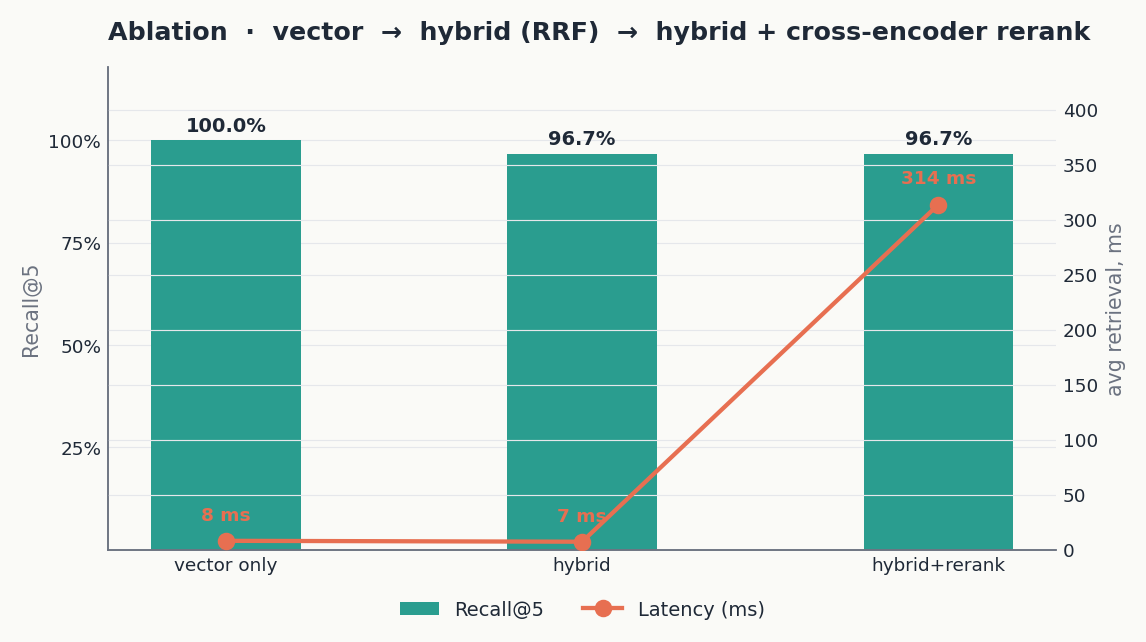
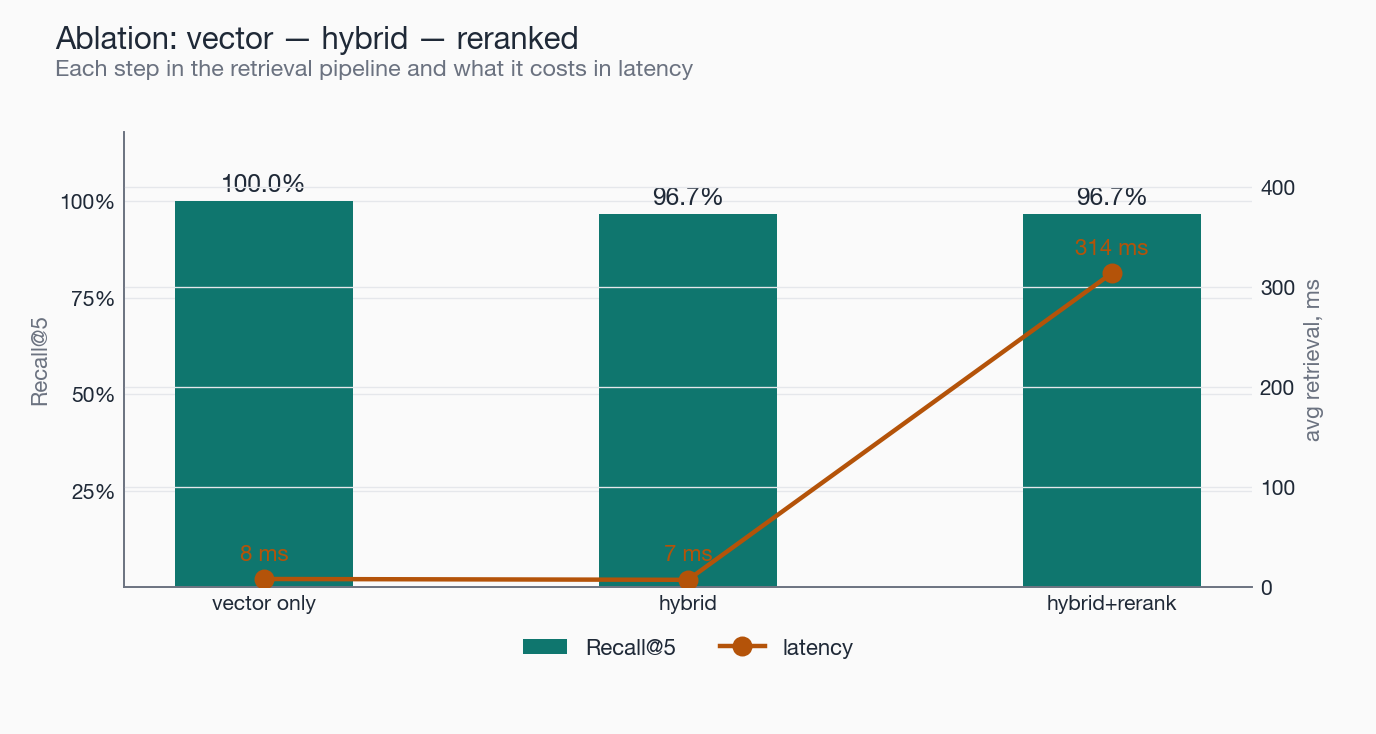
Polish charts and shorten eval section
- Redraw 3 charts with clean light-theme palette
- Simplify architecture diagram (remove emojis, tighten labels)
- Shorten Evaluation Methodology section

diff --git a/scripts/make_charts.py b/scripts/make_charts.py
@@ -9,27 +9,24 @@ ABLATION = Path("data/eval/ablation.json")
 ASSETS = Path("assets")
 ASSETS.mkdir(exist_ok=True)
 
-NAVY = "#1F2A44"
-TEAL = "#2A9D8F"
-AMBER = "#E9C46A"
-CORAL = "#E76F51"
-SLATE = "#264653"
-GRID = "#E5E7EB"
-TEXT = "#1F2937"
+INK = "#1F2937"
 MUTED = "#6B7280"
-BG = "#FAFAF7"
+GRID = "#E5E7EB"
+ACCENT = "#2851A3"
+GOOD = "#0F766E"
+WARN = "#B45309"
+BG = "#FAFAFA"
 
 mpl.rcParams.update({
-    "font.family": "DejaVu Sans",
+    "font.family": "sans-serif",
+    "font.sans-serif": ["Helvetica Neue", "Helvetica", "Arial", "DejaVu Sans"],
+    "font.size": 10.5,
     "axes.edgecolor": MUTED,
-    "axes.labelcolor": TEXT,
-    "axes.titlecolor": TEXT,
-    "axes.titlesize": 13,
-    "axes.titleweight": "semibold",
-    "axes.titlepad": 14,
-    "axes.labelsize": 10.5,
-    "xtick.color": TEXT,
-    "ytick.color": TEXT,
+    "axes.labelcolor": INK,
+    "axes.titlecolor": INK,
+    "axes.labelsize": 10,
+    "xtick.color": INK,
+    "ytick.color": INK,
     "xtick.labelsize": 9.5,
     "ytick.labelsize": 9.5,
     "axes.spines.top": False,
@@ -39,15 +36,23 @@ mpl.rcParams.update({
     "grid.linewidth": 0.6,
     "grid.alpha": 1.0,
     "axes.axisbelow": True,
+    "figure.facecolor": BG,
 })
 
 
 def _frame(ax):
     for s in ("left", "bottom"):
         ax.spines[s].set_color(MUTED)
-        ax.spines[s].set_linewidth(0.8)
+        ax.spines[s].set_linewidth(0.7)
     ax.tick_params(length=0)
-    ax.grid(axis="x", visible=False)
+
+
+def _titles(fig, title, subtitle=None):
+    fig.text(0.04, 0.965, title, fontsize=14, fontweight="semibold",
+             color=INK, ha="left", va="top")
+    if subtitle:
+        fig.text(0.04, 0.918, subtitle, fontsize=10.5, color=MUTED,
+                 ha="left", va="top")
 
 
 def eval_summary():
@@ -55,29 +60,27 @@ def eval_summary():
     m = data["metrics"]
     labels = ["Recall@5", "Correctness", "Faithfulness"]
     values = [m["recall_at_5"], m["correctness"], m.get("faithfulness", 0)]
-    colors = [TEAL, AMBER, CORAL]
 
-    fig, ax = plt.subplots(figsize=(7, 4.2), facecolor=BG)
+    fig, ax = plt.subplots(figsize=(7.5, 4.4))
     ax.set_facecolor(BG)
-    bars = ax.bar(labels, values, color=colors, width=0.55, edgecolor="none")
-    ax.set_ylim(0, 1.08)
+    bars = ax.bar(labels, values, color=ACCENT, width=0.5, edgecolor="none")
+    bars[0].set_color(GOOD)
+    bars[2].set_color(GOOD)
+
+    ax.set_ylim(0, 1.10)
     ax.set_yticks([0.25, 0.5, 0.75, 1.0])
     ax.set_yticklabels(["25%", "50%", "75%", "100%"])
     ax.set_ylabel("score", color=MUTED)
-    ax.set_title(f"RAG evaluation  ·  {m['total']} questions  ·  Llama 3.3 70B judge", loc="left")
+
     for b, v in zip(bars, values):
-        ax.text(
-            b.get_x() + b.get_width() / 2,
-            v + 0.018,
-            f"{v:.1%}",
-            ha="center",
-            color=TEXT,
-            fontsize=11,
-            fontweight="semibold",
-        )
+        ax.text(b.get_x() + b.get_width() / 2, v + 0.022, f"{v:.1%}",
+                ha="center", color=INK, fontsize=11.5, fontweight="semibold")
+
     _frame(ax)
-    fig.tight_layout()
-    fig.savefig(ASSETS / "eval_summary.png", dpi=140, facecolor=BG)
+    fig.subplots_adjust(top=0.80, left=0.10, right=0.96, bottom=0.12)
+    _titles(fig, f"RAG evaluation — {m['total']} questions",
+            "Llama 3.3 70B as judge · retrieval, correctness, faithfulness")
+    fig.savefig(ASSETS / "eval_summary.png", dpi=160, facecolor=BG)
     plt.close(fig)
 
 
@@ -95,25 +98,31 @@ def eval_by_category():
     rec = [sum(cats[c]["recall"]) / len(cats[c]["recall"]) for c in names]
     cor = [sum(cats[c]["correct"]) / len(cats[c]["correct"]) for c in names]
 
-    fig, ax = plt.subplots(figsize=(10, 4.6), facecolor=BG)
+    fig, ax = plt.subplots(figsize=(10.5, 4.6))
     ax.set_facecolor(BG)
     x = list(range(len(names)))
     width = 0.38
-    ax.bar([i - width / 2 for i in x], rec, width, label="Recall@5", color=TEAL, edgecolor="none")
-    ax.bar([i + width / 2 for i in x], cor, width, label="Correctness", color=AMBER, edgecolor="none")
+    ax.bar([i - width / 2 for i in x], rec, width,
+           label="Recall@5", color=GOOD, edgecolor="none")
+    ax.bar([i + width / 2 for i in x], cor, width,
+           label="Correctness", color=ACCENT, edgecolor="none")
+
     ax.set_xticks(x)
     ax.set_xticklabels(names, rotation=30, ha="right")
-    ax.set_ylim(0, 1.08)
+    ax.set_ylim(0, 1.10)
     ax.set_yticks([0.25, 0.5, 0.75, 1.0])
     ax.set_yticklabels(["25%", "50%", "75%", "100%"])
     ax.set_ylabel("score", color=MUTED)
-    ax.set_title("Per-category performance", loc="left")
+
     leg = ax.legend(frameon=False, loc="lower right", fontsize=10)
     for t in leg.get_texts():
-        t.set_color(TEXT)
+        t.set_color(INK)
+
     _frame(ax)
-    fig.tight_layout()
-    fig.savefig(ASSETS / "eval_by_category.png", dpi=140, facecolor=BG)
+    fig.subplots_adjust(top=0.84, left=0.07, right=0.97, bottom=0.22)
+    _titles(fig, "Per-category performance",
+            "Recall@5 and Correctness across 12 question categories")
+    fig.savefig(ASSETS / "eval_by_category.png", dpi=160, facecolor=BG)
     plt.close(fig)
 
 
@@ -126,45 +135,48 @@ def ablation_chart():
     recall = [data[n]["recall_at_5"] for n in names]
     latency = [data[n]["avg_retrieval_ms"] for n in names]
 
-    fig, ax1 = plt.subplots(figsize=(8.2, 4.6), facecolor=BG)
+    fig, ax1 = plt.subplots(figsize=(8.6, 4.6))
     ax1.set_facecolor(BG)
     ax2 = ax1.twinx()
     ax2.set_facecolor(BG)
 
-    bars = ax1.bar(pretty, recall, color=TEAL, width=0.42, edgecolor="none", label="Recall@5", zorder=2)
-    ax2.plot(pretty, latency, "o-", color=CORAL, linewidth=2.2, markersize=8, label="Latency (ms)", zorder=3)
+    bars = ax1.bar(pretty, recall, color=GOOD, width=0.42,
+                   edgecolor="none", label="Recall@5", zorder=2)
+    ax2.plot(pretty, latency, "o-", color=WARN, linewidth=2.0,
+             markersize=8, label="latency", zorder=3)
 
     ax1.set_ylim(0, 1.18)
     ax1.set_yticks([0.25, 0.5, 0.75, 1.0])
     ax1.set_yticklabels(["25%", "50%", "75%", "100%"])
     ax1.set_ylabel("Recall@5", color=MUTED)
     ax2.set_ylabel("avg retrieval, ms", color=MUTED)
-    ax2.set_ylim(0, max(latency) * 1.4)
+    ax2.set_ylim(0, max(latency) * 1.45)
 
     for b, v in zip(bars, recall):
-        ax1.text(b.get_x() + b.get_width() / 2, v + 0.022, f"{v:.1%}",
-                 ha="center", color=TEXT, fontsize=10, fontweight="semibold")
+        ax1.text(b.get_x() + b.get_width() / 2, v + 0.025, f"{v:.1%}",
+                 ha="center", color=INK, fontsize=11, fontweight="semibold")
     for x_i, y in zip(pretty, latency):
         ax2.text(x_i, y + max(latency) * 0.06, f"{y:.0f} ms",
-                 ha="center", color=CORAL, fontsize=9.5, fontweight="semibold")
+                 ha="center", color=WARN, fontsize=10, fontweight="semibold")
 
-    ax1.set_title("Ablation  ·  vector  →  hybrid (RRF)  →  hybrid + cross-encoder rerank", loc="left")
     _frame(ax1)
     ax2.spines["top"].set_visible(False)
     ax2.spines["right"].set_color(MUTED)
-    ax2.spines["right"].set_linewidth(0.8)
+    ax2.spines["right"].set_linewidth(0.7)
     ax2.tick_params(length=0)
+    ax1.grid(axis="x", visible=False)
 
     h1, l1 = ax1.get_legend_handles_labels()
     h2, l2 = ax2.get_legend_handles_labels()
     leg = ax1.legend(h1 + h2, l1 + l2, frameon=False, loc="lower center",
-                     bbox_to_anchor=(0.5, -0.18), ncol=2, fontsize=10)
+                     bbox_to_anchor=(0.5, -0.20), ncol=2, fontsize=10)
     for t in leg.get_texts():
-        t.set_color(TEXT)
-    fig.subplots_adjust(bottom=0.18)
+        t.set_color(INK)
 
-    fig.tight_layout()
-    fig.savefig(ASSETS / "ablation.png", dpi=140, facecolor=BG)
+    fig.subplots_adjust(top=0.82, left=0.09, right=0.91, bottom=0.20)
+    _titles(fig, "Ablation: vector — hybrid — reranked",
+            "Each step in the retrieval pipeline and what it costs in latency")
+    fig.savefig(ASSETS / "ablation.png", dpi=160, facecolor=BG)
     plt.close(fig)
 
 
@@ -172,4 +184,4 @@ if __name__ == "__main__":
     eval_summary()
     eval_by_category()
     ablation_chart()
-    print("Charts saved to assets/")
+    print("Charts saved to", ASSETS)

diff --git a/README.md b/README.md
@@ -33,31 +33,25 @@ Per-category breakdown across 12 question types:
 
 ```mermaid
 flowchart TB
-    subgraph ingest["📥 Ingestion (offline)"]
-        A1[Markdown documents] --> A2["RecursiveCharacter<br/>chunker (512/50)"]
-        A2 --> A3["all-MiniLM-L6-v2<br/>(384-dim embeddings)"]
-        A3 --> A4[(ChromaDB<br/>cosine similarity)]
+    subgraph ingest["Ingestion (offline)"]
+        A1[Markdown docs] --> A2["Chunker<br/>512 / 50 overlap"]
+        A2 --> A3["MiniLM-L6-v2<br/>384-dim"]
+        A3 --> A4[(ChromaDB)]
     end
 
-    subgraph query["🔍 Query (online)"]
-        B1[User question] --> B2{Hybrid retrieval}
-        B2 --> B3["Dense vector<br/>top-20"]
-        B2 --> B4["BM25<br/>top-20"]
-        B3 --> B5[RRF fusion<br/>k=60]
+    subgraph query["Query pipeline"]
+        B1[Question] --> B2{Hybrid retrieval}
+        B2 --> B3[Dense top-20]
+        B2 --> B4[BM25 top-20]
+        B3 --> B5[RRF fusion]
         B4 --> B5
-        B5 --> B6["Cross-encoder rerank<br/>ms-marco-MiniLM-L-6-v2"]
-        B6 --> B7["Top-5 chunks"]
-        B7 --> B8["Llama 3.3 70B<br/>via Groq"]
+        B5 --> B6[Cross-encoder rerank]
+        B6 --> B7[Top-5 chunks]
+        B7 --> B8[Llama 3.3 70B]
         B8 --> B9[Answer + sources]
     end
 
     A4 -.-> B3
-
-    subgraph eval["📊 Evaluation"]
-        C1[30 Q&A test set] --> C2[Retrieval eval<br/>Recall@5]
-        C1 --> C3[Generation eval]
-        C3 --> C4[LLM-as-judge<br/>correctness 0.0–1.0]
-    end
 ```
 
 ---
@@ -79,29 +73,29 @@ flowchart TB
 
 ---
 
-## Evaluation Methodology
+## Evaluation
 
-**Test set:** 30 questions across 12 categories (`api`, `billing`, `pricing`, `security`, `sla`, `integrations`, `migration`, `policy`, `getting_started`, `limits`, `technical`, `troubleshooting`). Each question has a ground-truth answer and an expected source document.
+**Test set** — 30 questions across 12 categories with ground-truth answers and expected sources.
 
-**Metrics:**
-- **Recall@5** — does the expected source document appear in the top-5 retrieved chunks?
-- **Correctness** (0.0–1.0) — Llama 3.3 70B judges each generated answer against the ground truth on a fixed rubric.
-- **Faithfulness** (0.0–1.0) — same judge checks every claim is supported by the retrieved context (no hallucinations).
-- **Latency** — end-to-end time from question to answer (retrieval + generation).
+**Metrics**
+- **Recall@5** — expected source in top-5 retrieved chunks
+- **Correctness** (0–1) — LLM-as-judge against ground truth
+- **Faithfulness** (0–1) — every claim supported by retrieved context
+- **Latency** — end-to-end question → answer
 
-The full pipeline including the LLM judge is reproducible: `python -m src.evaluation.evaluate full`. Test set is committed at `data/eval/test_set.json`. Reports are written to `data/eval/report.json`.
+Reproducible: `python -m src.evaluation.evaluate full` · test set: `data/eval/test_set.json`.
 
-### Ablation: how much does each component contribute?
+### Ablation
 
 ![Ablation](assets/ablation.png)
 
-| Configuration | Recall@5 | Avg retrieval | Notes |
-|---|---:|---:|---|
-| Vector only (dense embeddings) | **100.0%** | 8 ms | Sufficient on this clean small corpus |
-| + BM25 hybrid (RRF fusion) | 96.7% | 7 ms | Adds keyword precision; slightly noisier on small N |
-| + Cross-encoder reranker | 96.7% | 314 ms | Reorders for relevance; pays in latency |
+| Configuration | Recall@5 | Latency |
+|---|---:|---:|
+| Vector only | **100.0%** | 8 ms |
+| + BM25 hybrid (RRF) | 96.7% | 7 ms |
+| + Cross-encoder rerank | 96.7% | 314 ms |
 
-**Honest finding:** on a 100-chunk well-curated corpus, dense vector search alone is sufficient. Hybrid and reranking show their value on larger, noisier production corpora where keyword matching catches what semantic search misses (e.g., exact product names, error codes, version numbers). The reference architecture keeps the full stack because that was the production configuration; for this synthetic eval it's a documented trade-off.
+On a clean 100-chunk corpus dense search alone is enough. Hybrid + rerank pay off on larger, noisier production corpora — exact product names, error codes, versions — so the full stack is kept as production reference.
 
 ---
 
